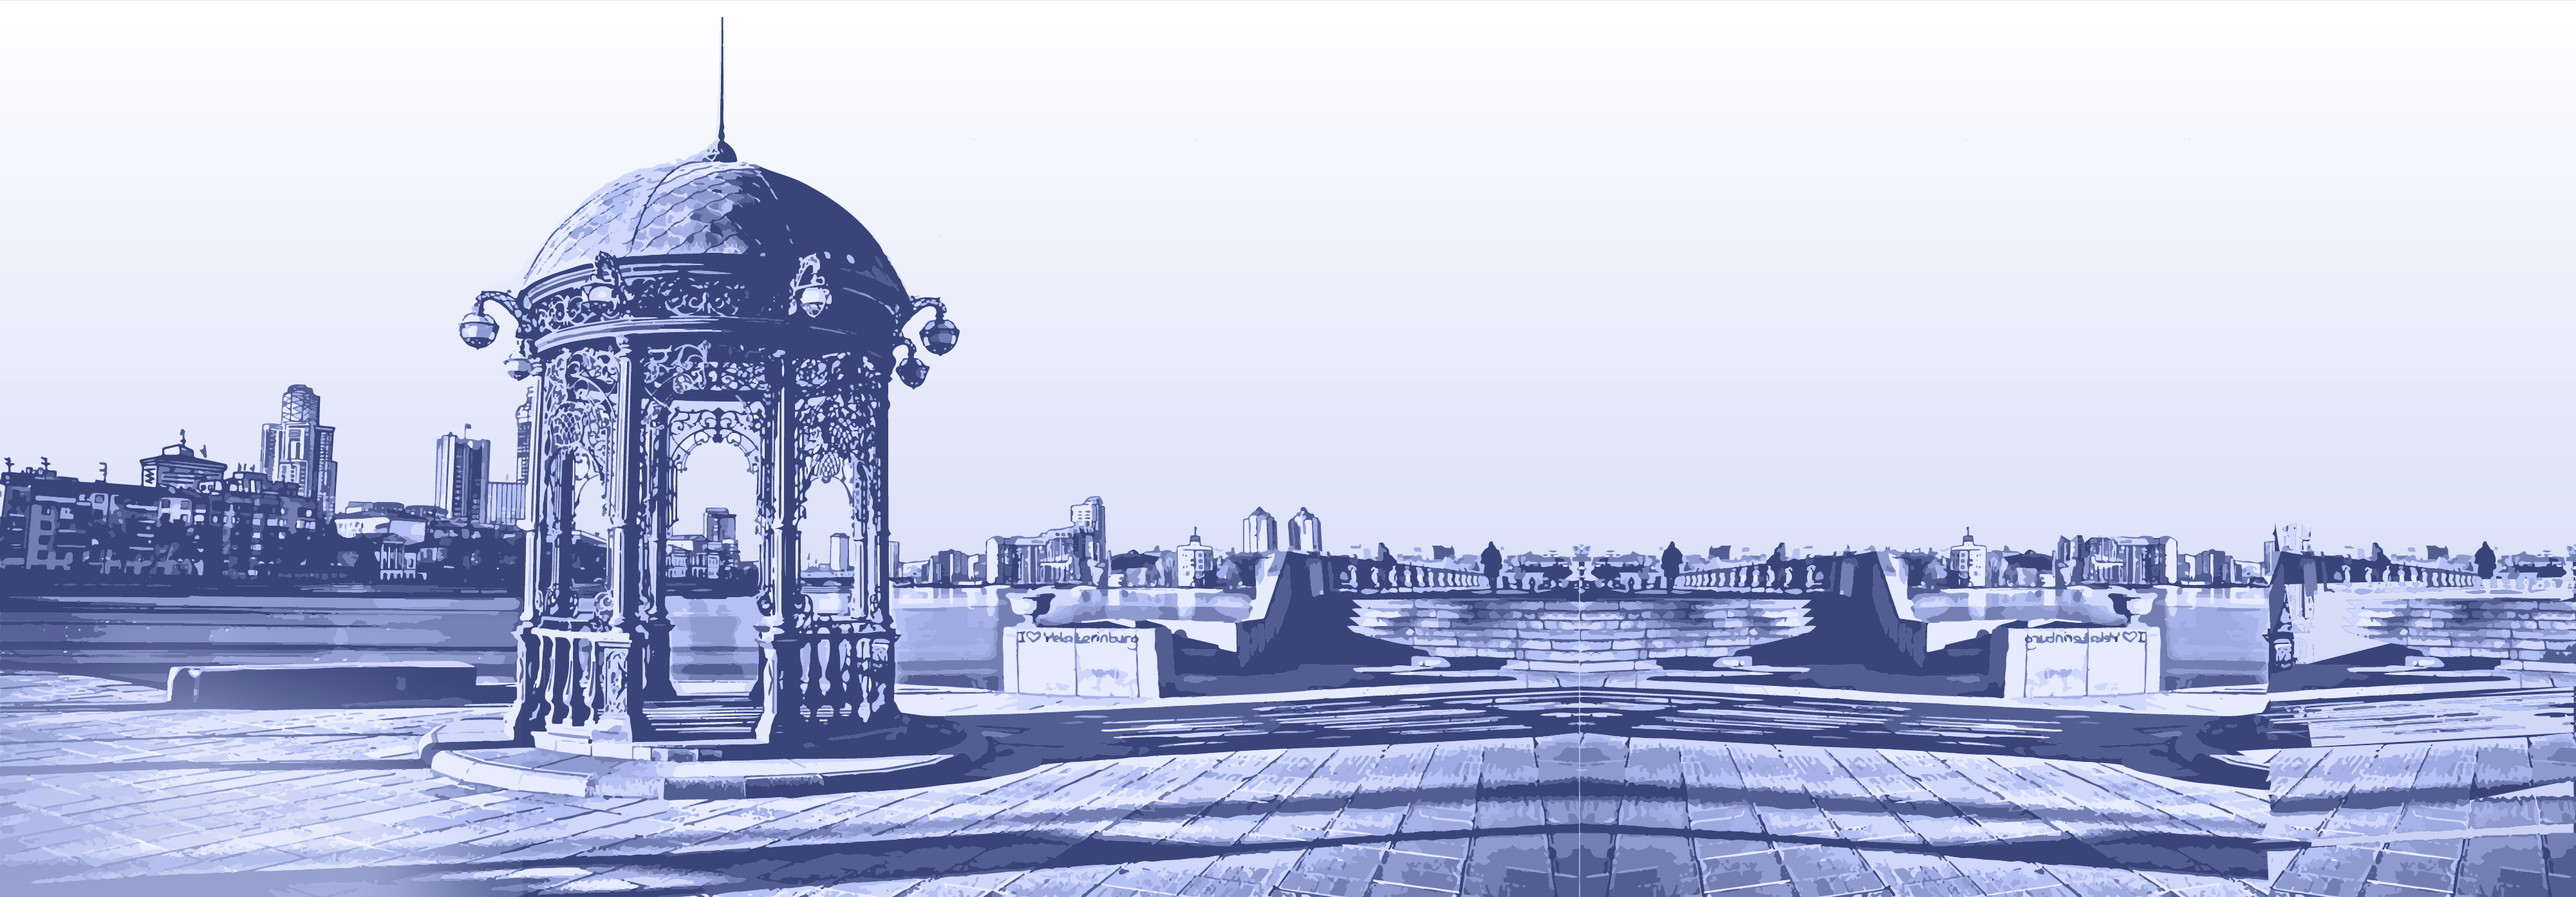
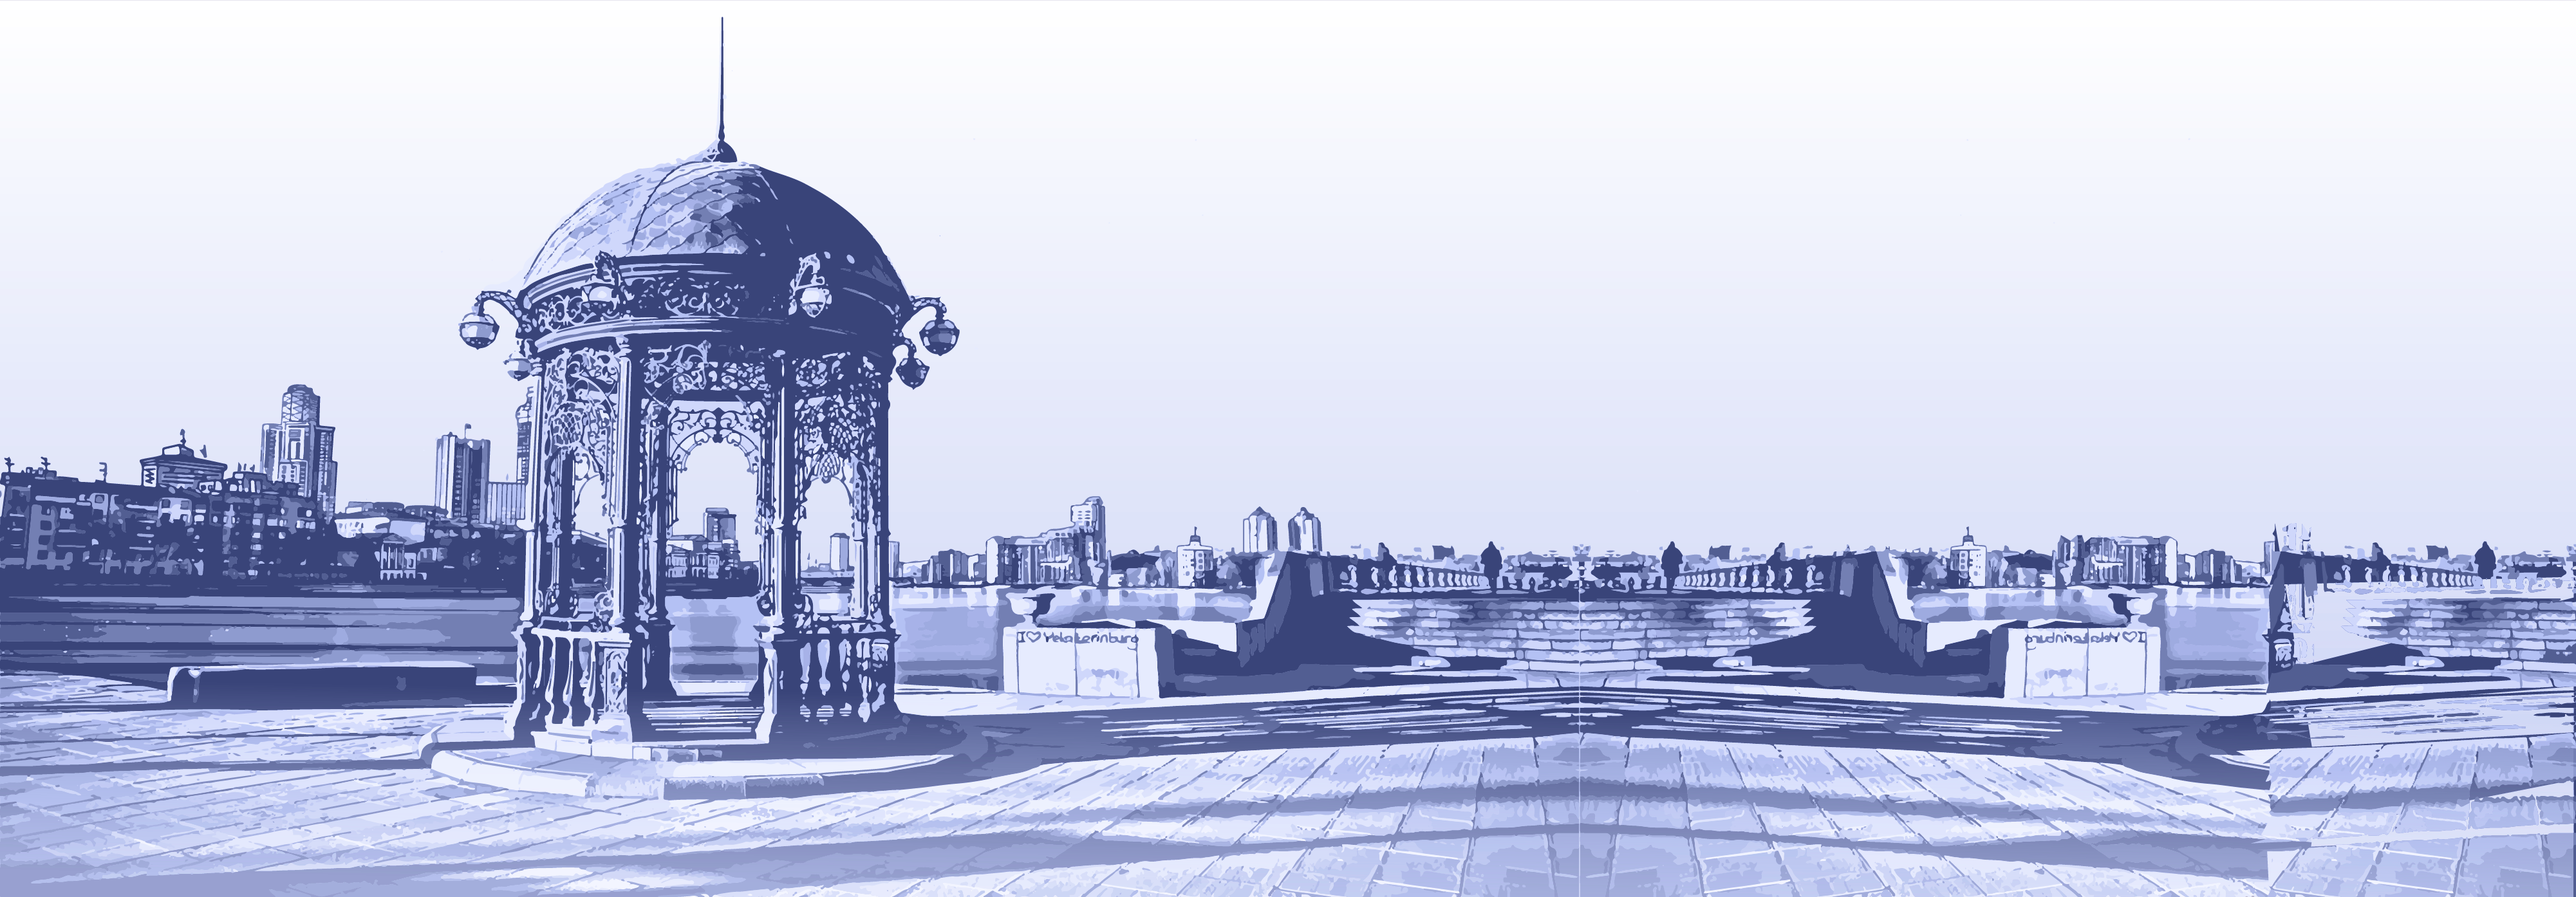
design, images#1

Changed region(s): [[0.1562, 0.802, 0.9995, 1.0], [0.0, 0.7095, 0.1249, 0.8945]]

diff --git a/src/scss/components/_banner.scss b/src/scss/components/_banner.scss
@@ -55,7 +55,7 @@
     section.banner {
       height: $height;
       position: relative;
-      background: url("/assets/images/misis.png") no-repeat,
+      background: url("/assets/images/misis_en.png") no-repeat,
       url("/assets/images/banner/1-06_en_2019.png") no-repeat, // Урфу
       url("/assets/images/banner/1-05_2019.png") no-repeat, // edcrunch урал
       url("/assets/images/banner/1-04_en_2019.png") no-repeat, // Конференция
